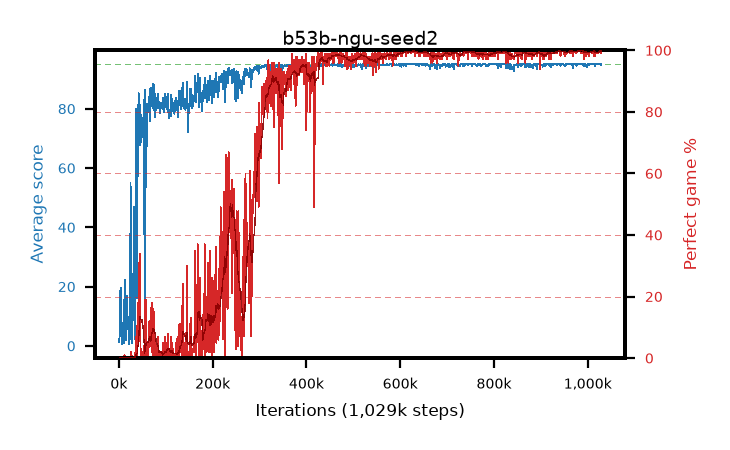
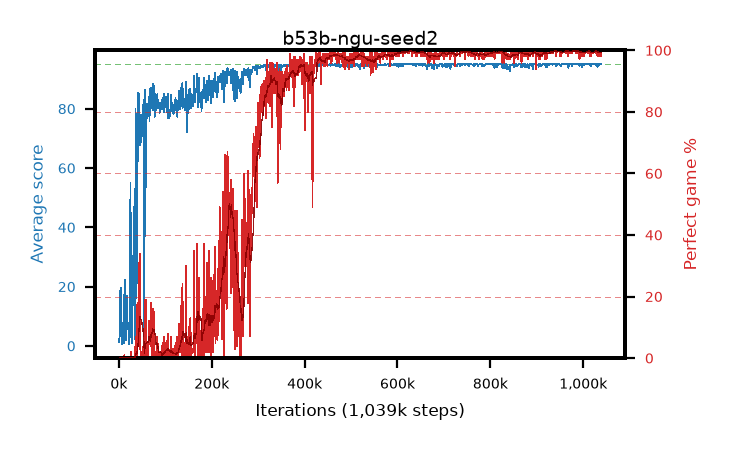
live pictures of 4 arm(s)

diff --git a/results/b53b-ngu-seed2/b53b-ngu-seed2.md b/results/b53b-ngu-seed2/b53b-ngu-seed2.md
@@ -1,6 +1,6 @@
 # b53b-ngu-seed2
 
-step **1,029,000** · 1029 evals · trailing **94.95** · peak **94.96** @1,028,000 · sef **69.7** · best30 **99.8** @983,000
+step **1,039,000** · 1039 evals · trailing **94.91** · peak **94.96** @1,028,000 · sef **70.0** · best30 **99.8** @983,000
 
 ## Config
 
@@ -80,15 +80,15 @@ step **1,029,000** · 1029 evals · trailing **94.95** · peak **94.96** @1,028,
 | 2000 | 6.04 | 3.73 | 0.0 | 19.0 | 3.28 | 0.0 | 0.4 |
 | 3000 | 18.06 | 8.5 | 1.0 | 40.0 | 15.298 | 0.0 | 0.4 |
 | ... | ... | ... | ... | ... | ... | ... | ... |
-| 1018000 | 94.98 | 94.88 | 93.0 | 95.0 | 192.66 | 99.0 | 0.4 |
-| 1019000 | 95.0 | 94.88 | 95.0 | 95.0 | 193.725 | 100.0 | 0.4 |
-| 1020000 | 95.0 | 94.88 | 95.0 | 95.0 | 193.722 | 100.0 | 0.4 |
-| 1021000 | 95.0 | 94.9 | 95.0 | 95.0 | 193.719 | 100.0 | 0.4 |
-| 1022000 | 94.97 | 94.91 | 92.0 | 95.0 | 192.69 | 99.0 | 0.4 |
-| 1023000 | 95.0 | 94.91 | 95.0 | 95.0 | 193.716 | 100.0 | 0.4 |
-| 1024000 | 95.0 | 94.91 | 95.0 | 95.0 | 193.709 | 100.0 | 0.4 |
-| 1025000 | 95.0 | 94.91 | 95.0 | 95.0 | 193.705 | 100.0 | 0.4 |
-| 1026000 | 95.0 | 94.91 | 95.0 | 95.0 | 193.71 | 100.0 | 0.4 |
-| 1027000 | 95.0 | 94.94 | 95.0 | 95.0 | 193.714 | 100.0 | 0.4 |
 | 1028000 | 94.73 | 94.96 | 68.0 | 95.0 | 192.45 | 99.0 | 0.4 |
 | 1029000 | 94.98 | 94.95 | 93.0 | 95.0 | 192.651 | 99.0 | 0.4 |
+| 1030000 | 94.22 | 94.93 | 17.0 | 95.0 | 191.899 | 99.0 | 0.4 |
+| 1031000 | 94.92 | 94.93 | 90.0 | 95.0 | 191.599 | 98.0 | 0.4 |
+| 1032000 | 95.0 | 94.93 | 95.0 | 95.0 | 193.709 | 100.0 | 0.4 |
+| 1033000 | 94.5 | 94.92 | 50.0 | 95.0 | 191.142 | 98.0 | 0.4 |
+| 1034000 | 95.0 | 94.92 | 95.0 | 95.0 | 193.716 | 100.0 | 0.4 |
+| 1035000 | 95.0 | 94.92 | 95.0 | 95.0 | 193.714 | 100.0 | 0.4 |
+| 1036000 | 94.91 | 94.92 | 86.0 | 95.0 | 192.585 | 99.0 | 0.4 |
+| 1037000 | 95.0 | 94.92 | 95.0 | 95.0 | 193.713 | 100.0 | 0.4 |
+| 1038000 | 95.0 | 94.92 | 95.0 | 95.0 | 193.727 | 100.0 | 0.4 |
+| 1039000 | 94.98 | 94.91 | 94.0 | 95.0 | 191.595 | 98.0 | 0.4 |
